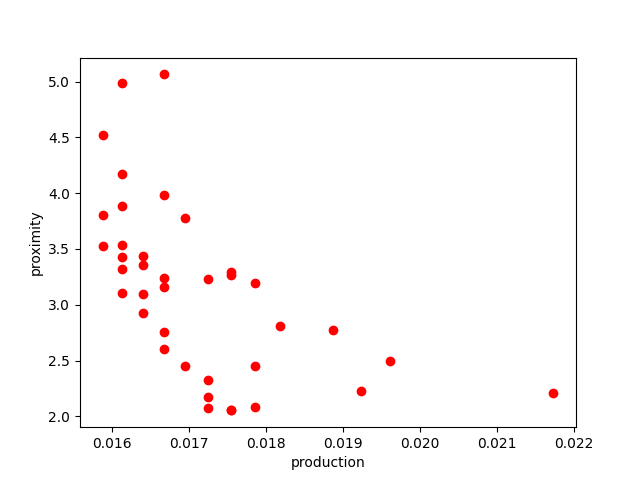
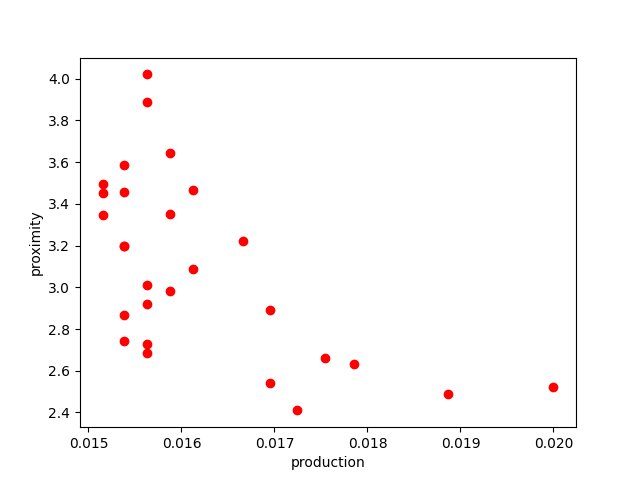
meilleur compacité

diff --git a/main.py b/main.py
@@ -28,8 +28,8 @@ USE_EVOLUTION_LOOP = True
 
 best_scores = []
 
-random.seed(1)
-np.random.seed(1)
+#random.seed(2)
+#np.random.seed(3)
 
 """ HELPER FUNCTIONS """
 
@@ -139,7 +139,7 @@ def plot_solution(solution):
         bought_plot[solution[i]] = 5
 
     fig, axs = plt.subplots(1, 1, figsize=(10, 9))
-    fig.canvas.manager.set_window_title("solution Plot:  " + "compacity: " + str(compacite(solution)) + " proximite: " + str(proximite(solution)) + " production: " + str(1/production(solution)))
+    fig.canvas.manager.set_window_title("solution Plot: " + "coût: " + str(cost_bought_plot(solution)) + "  compacity: " + str(compacite(solution)) + " proximite: " + str(proximite(solution)) + " production: " + str(1/production(solution)))
     plt.imshow(bought_plot, cmap='gray', interpolation='nearest')
     plt.show()
 
@@ -170,7 +170,7 @@ def plot_pareto(population):
 
     # ax.scatter([0], [0], [0], c='g', picker=True, pickradius=5)
 
-    #ax.scatter([s[1] for s in population_avec_score_normalise], [s[2] for s in population_avec_score_normalise], [s[3] for s in population_avec_score_normalise], c='b', picker=True, pickradius=0.1)
+    ax.scatter([s[1] for s in population_avec_score_normalise], [s[2] for s in population_avec_score_normalise], [s[3] for s in population_avec_score_normalise], c='b', picker=True, pickradius=0.1)
     ax.scatter([s[1] for s in pareto_frontier], [s[2] for s in pareto_frontier], [s[3] for s in pareto_frontier], c='r',
                picker=True, pickradius=0.1)
     # ax.legend()
@@ -246,7 +246,7 @@ def compacite(solution):
     milieuX = sum(plot[0] for plot in solution) / len(solution)
     milieuY = sum(plot[1] for plot in solution) / len(solution)
     # Critère à être minimiser
-    return sum((((plot[0] - milieuX)**2 + (plot[1] - milieuY)**2) / len(solution))**(1/2) for plot in solution)
+    return (sum((((plot[0] - milieuX)**2 + (plot[1] - milieuY)**2) for plot in solution)) / len(solution))**(1/2)
 
 def proximite(solution):
     """ Computes the mean of the euclidian distance of a bought parcel and inhabited zone
@@ -626,7 +626,7 @@ if __name__ == "__main__":
     """2: INITIAL POPULATION """
 
     # Generate initial population randomly ⇾ cover as much as possible the solution space
-    population_amelioree = genetic_algorithm(350, 400)
+    population_amelioree = genetic_algorithm(200, 400)
     # Determine the dominant solutions
     # Plot the frontier and generate csv files
 
